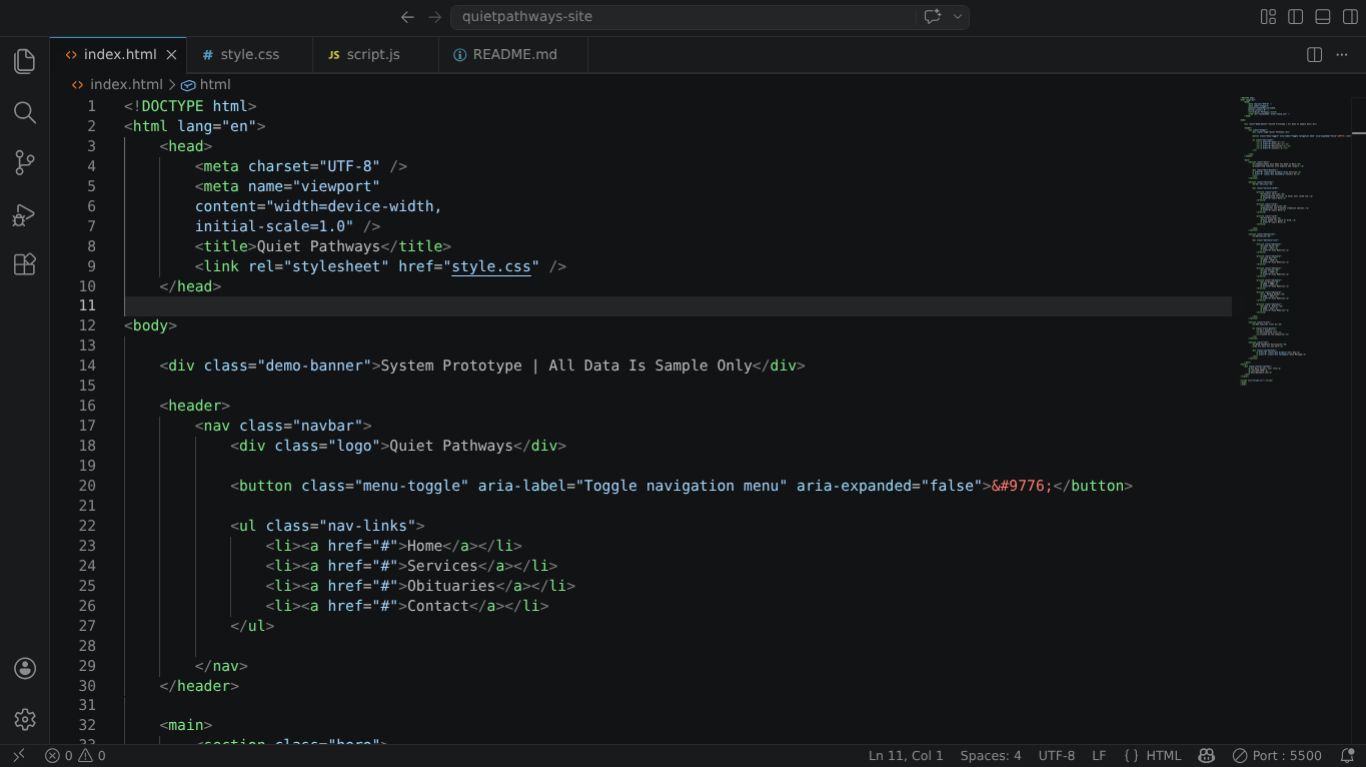
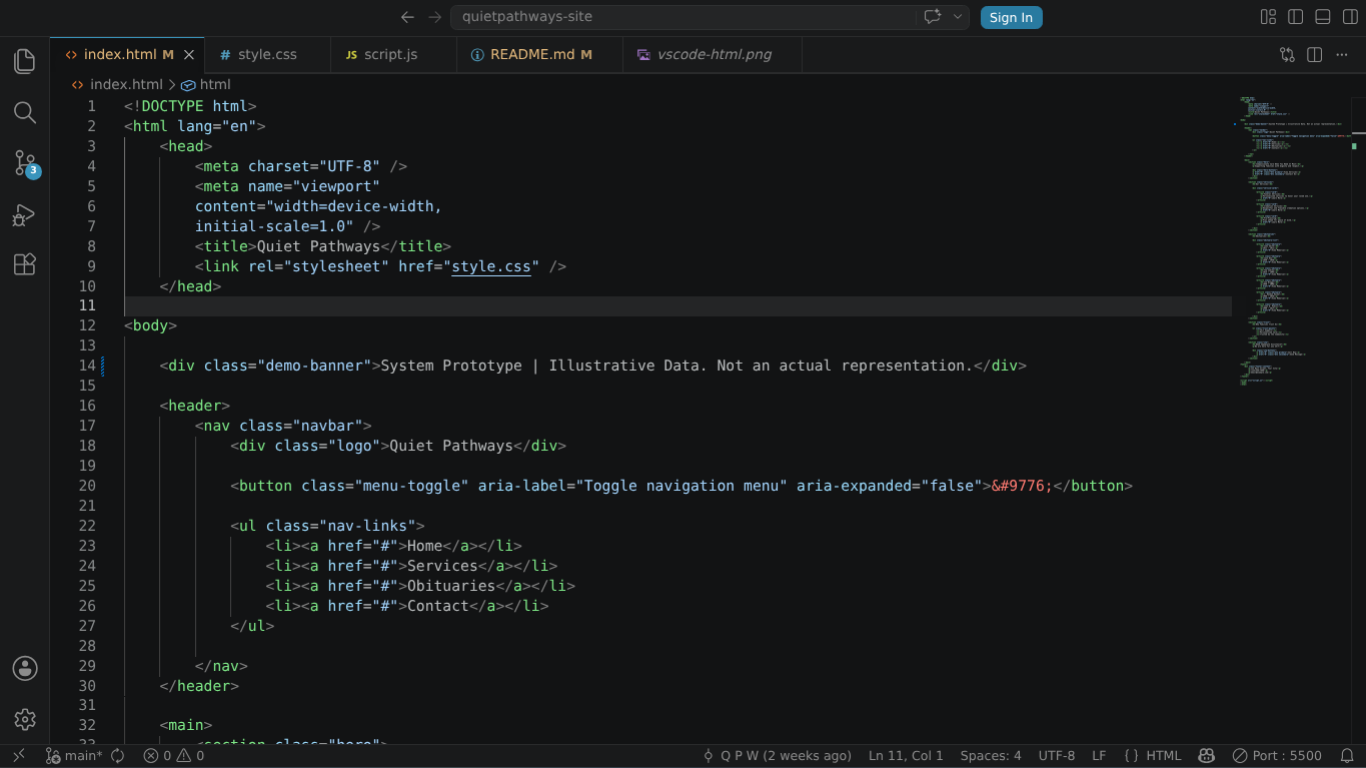
saved work before deployment setup

diff --git a/index.html b/index.html
@@ -11,7 +11,7 @@
 
 <body>
 
-    <div class="demo-banner">System Prototype | All Data Is Sample Only</div>
+    <div class="demo-banner">System Prototype | Illustrative Data. Not an actual representation.</div>
 
     <header>
         <nav class="navbar">

diff --git a/README.md b/README.md
@@ -23,7 +23,6 @@ A static web-page built with HTML, CSS, and JavaScript. Demonstrating clear and 
 ## Future Implementation?
 - Improve accessibility (ARIA roles)
 - Obituary page with search/filter functionality
-- Images and animations with descriptive alt text
 
 ## HTML Preview
 ![VS Code](images/vscode-html.png)